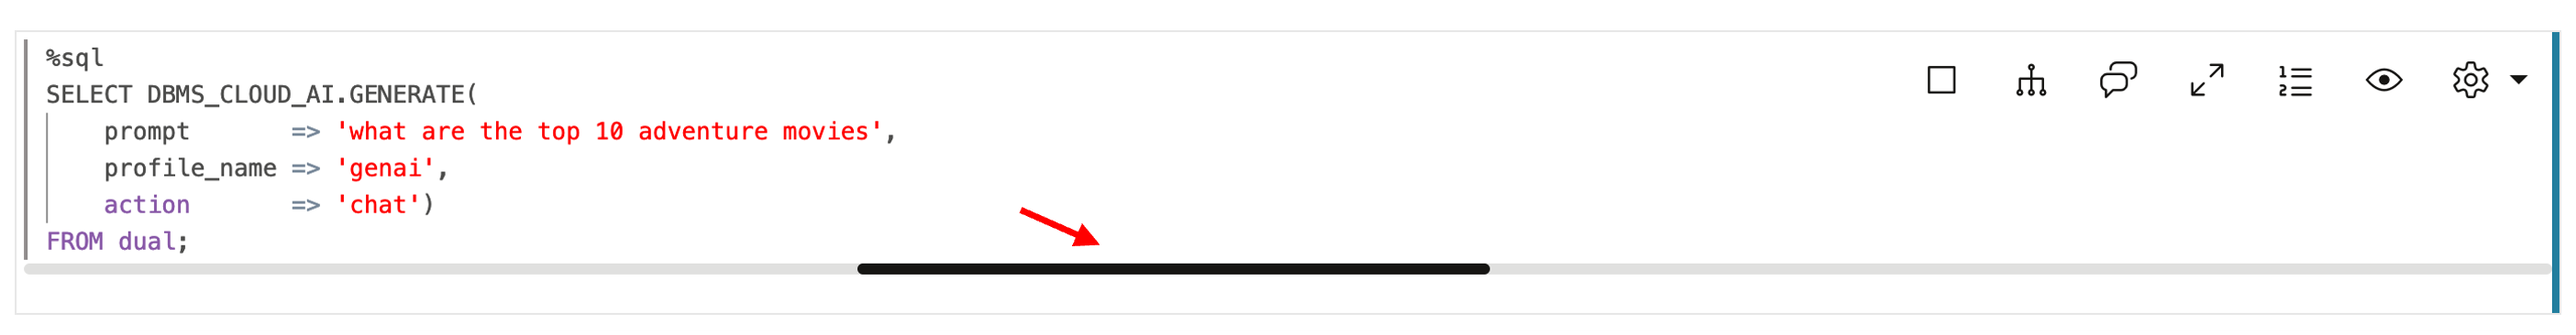
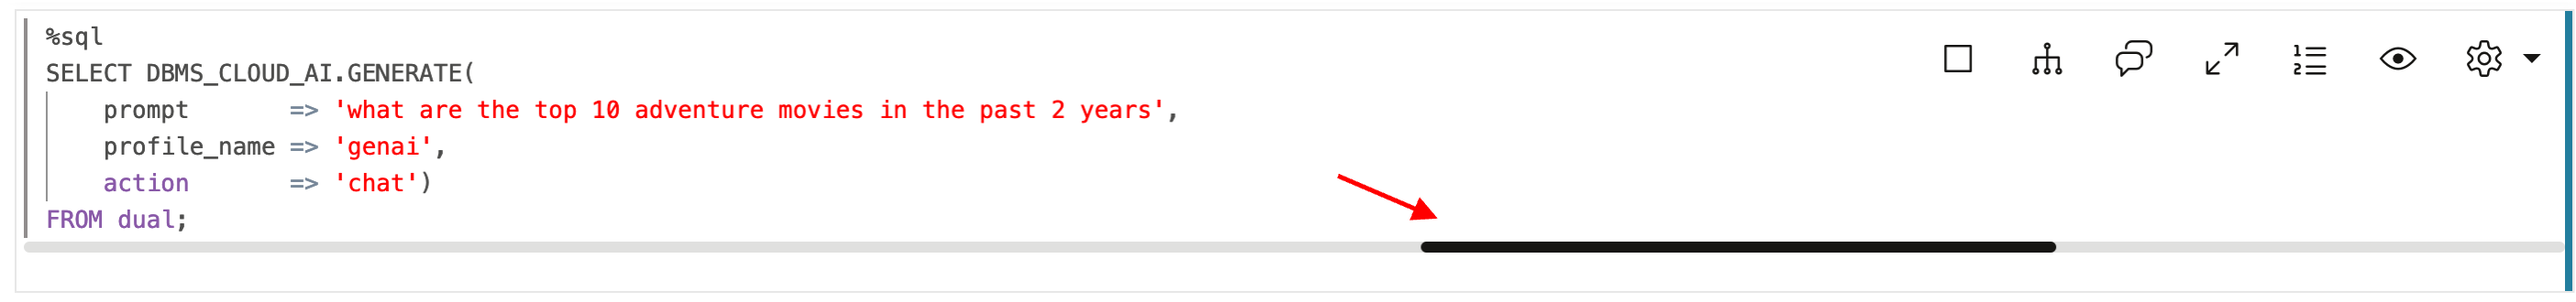
updated screenshots

diff --git a/adb-graph/graph-ml-23ai/query-graph/query-graph.md b/adb-graph/graph-ml-23ai/query-graph/query-graph.md
@@ -34,7 +34,7 @@ If the compute environment is not ready just yet and the code cannot be executed
      ```
      <copy>%sql
      SELECT DBMS_CLOUD_AI.GENERATE(
-         prompt       => 'what are the top 10 adventure movies',
+         prompt       => 'what are the top 10 adventure movies released in the past 2 years',
          profile_name => 'genai',
          action       => 'chat')
      FROM dual;</copy>
